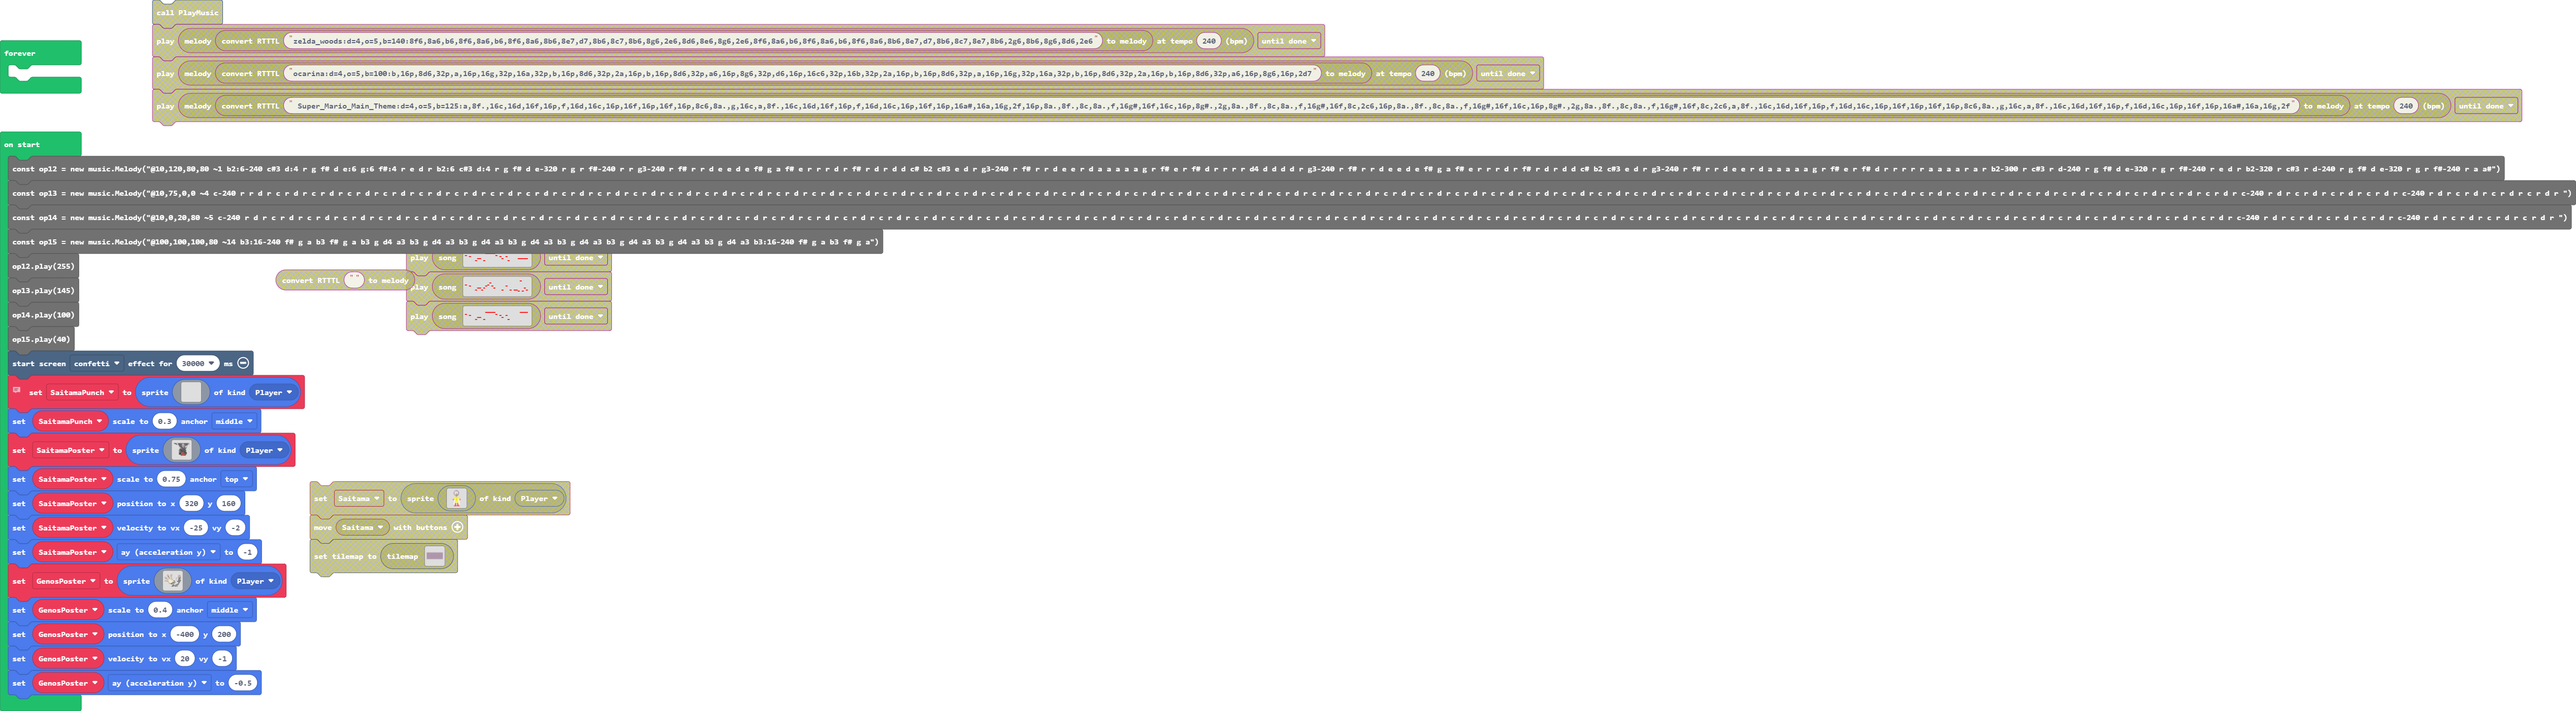
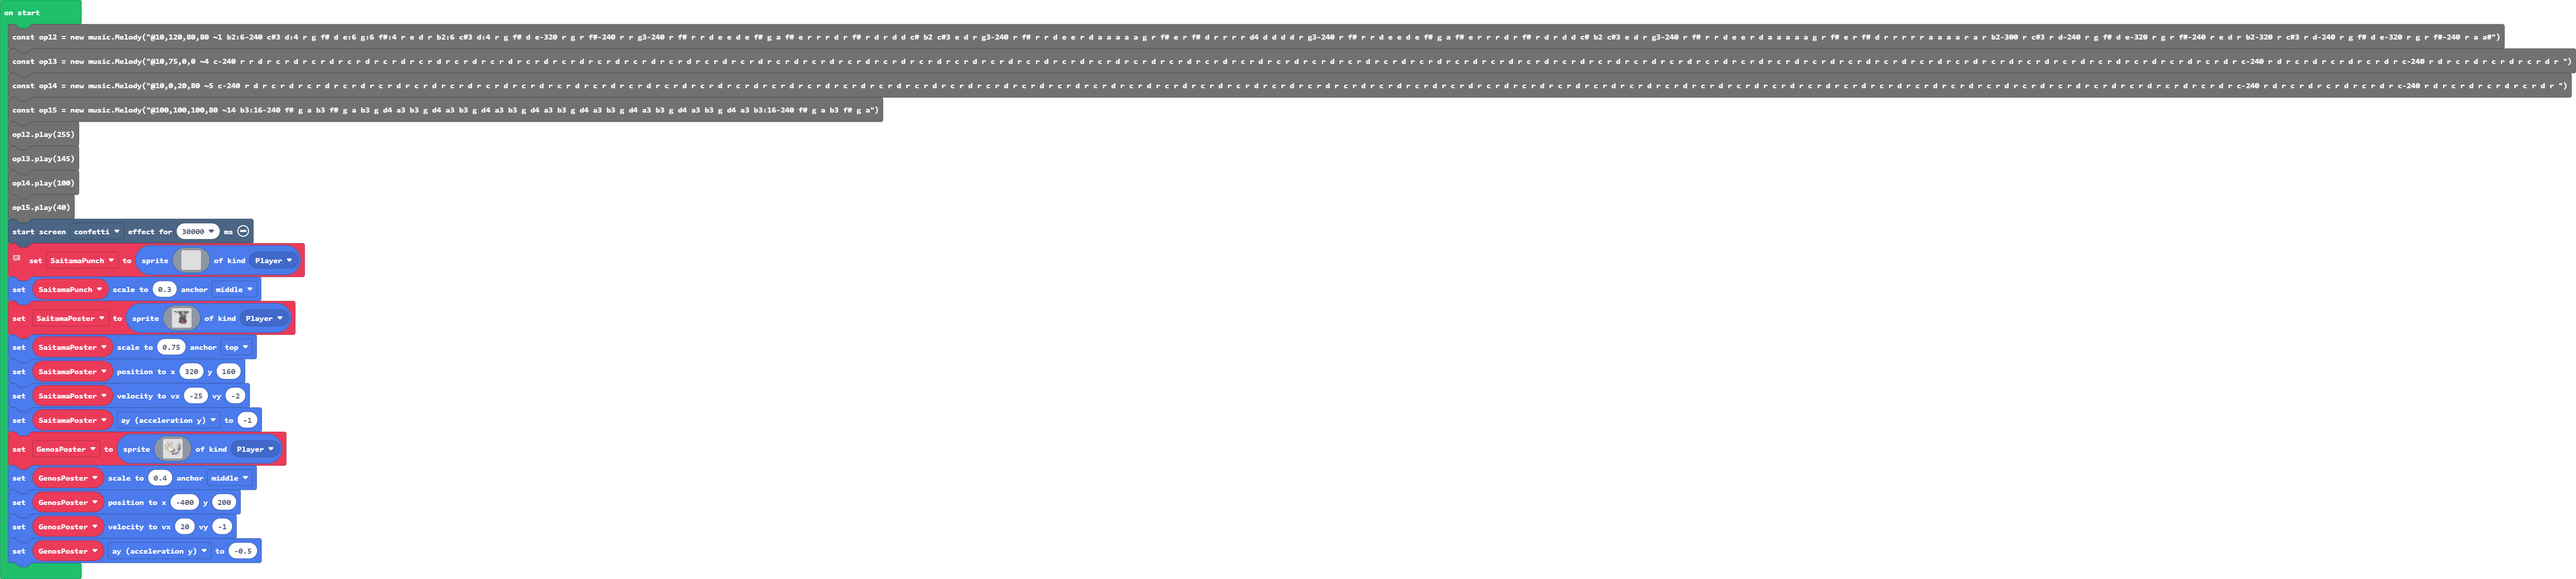
Update main.blocks, main.ts

diff --git a/main.ts b/main.ts
@@ -1143,6 +1143,3 @@ GenosPoster.setScale(0.4, ScaleAnchor.Middle)
 GenosPoster.setPosition(-400, 200)
 GenosPoster.setVelocity(20, -1)
 GenosPoster.ay = -0.5
-forever(function () {
-	
-})
